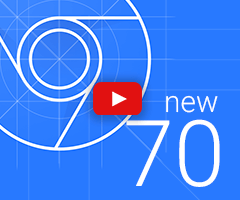
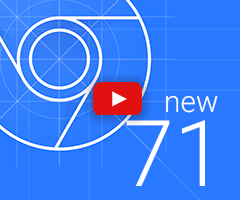
update whatsnew for m71
Bug: 894267
Commit-Queue: Kayce Basques <kayce@chromium.org>
Cr-Original-Commit-Position: refs/heads/master@{#598639}
Cr-Mirrored-From: https://chromium.googlesource.com/chromium/src
Cr-Mirrored-Commit: 9aea2042b779006e053bef828ceadf67778e6462

Changed region(s): [[0.7292, 0.57, 0.9333, 0.96]]

diff --git a/front_end/help/ReleaseNoteText.js b/front_end/help/ReleaseNoteText.js
@@ -13,6 +13,34 @@ const commandMenuShortcut = Host.isMac() ? 'Command + Shift + P' : 'Control + Sh
 /** @type {!Array<!Help.ReleaseNote>} */
 Help.releaseNoteText = [
   {
+    version: 13,
+    header: 'Highlights from the Chrome 71 update',
+    highlights: [
+      {
+        title: 'Hover over a Live Expression to highlight a DOM node',
+        subtitle: 'Hover over a result that evaluates to a node to highlight that node in the viewport.',
+        link: 'https://developers.google.com/web/updates/2018/10/devtools#hover',
+      },
+      {
+        title: 'Store DOM nodes as global variables',
+        subtitle: 'Right-click a node in the Elements panel or Console and select "Store as global variable".',
+        link: 'https://developers.google.com/web/updates/2018/10/devtools#store',
+      },
+      {
+        title: 'Initiator and priority information now in HAR imports and exports',
+        subtitle:
+            'Get more context around what caused a resource to be requested and what priority the browser assigned to each resource when sharing network logs.',
+        link: 'https://developers.google.com/web/updates/2018/10/devtools#HAR',
+      },
+      {
+        title: 'Access the Command Menu from the Main Menu',
+        subtitle: 'Open the Main Menu and select "Run command".',
+        link: 'https://developers.google.com/web/updates/2018/10/devtools#command-menu',
+      },
+    ],
+    link: 'https://developers.google.com/web/updates/2018/10/devtools',
+  },
+  {
     version: 12,
     header: 'Highlights from the Chrome 70 update',
     highlights: [
